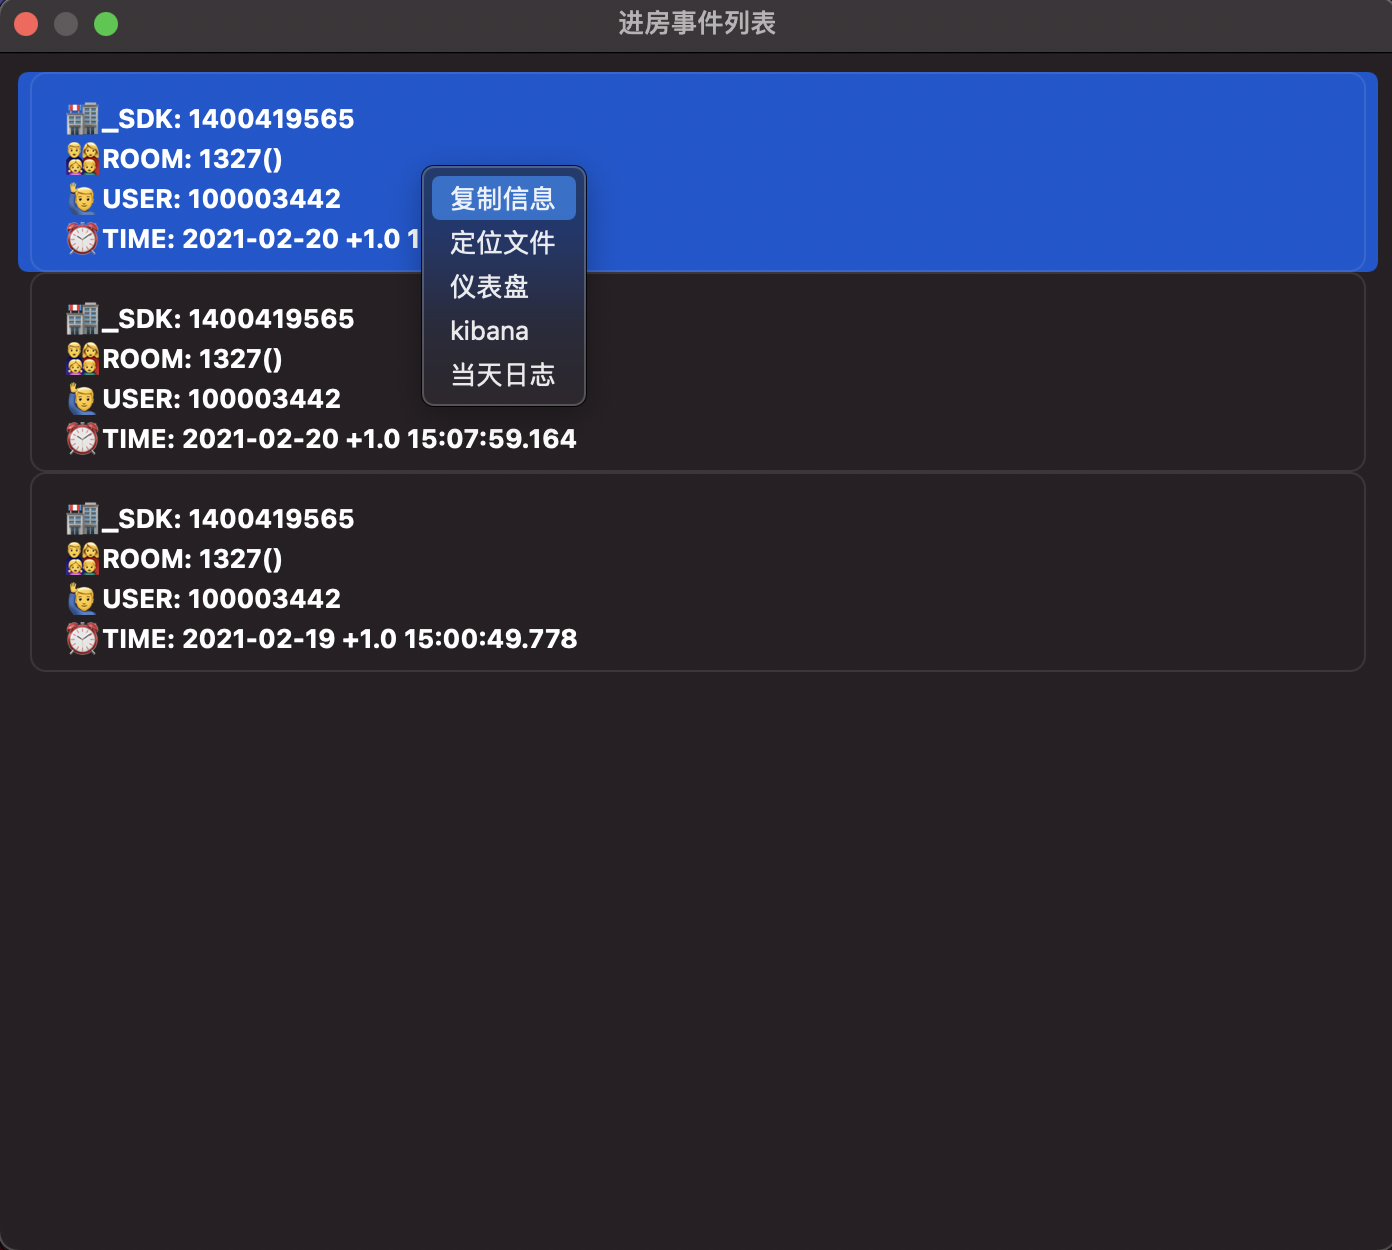
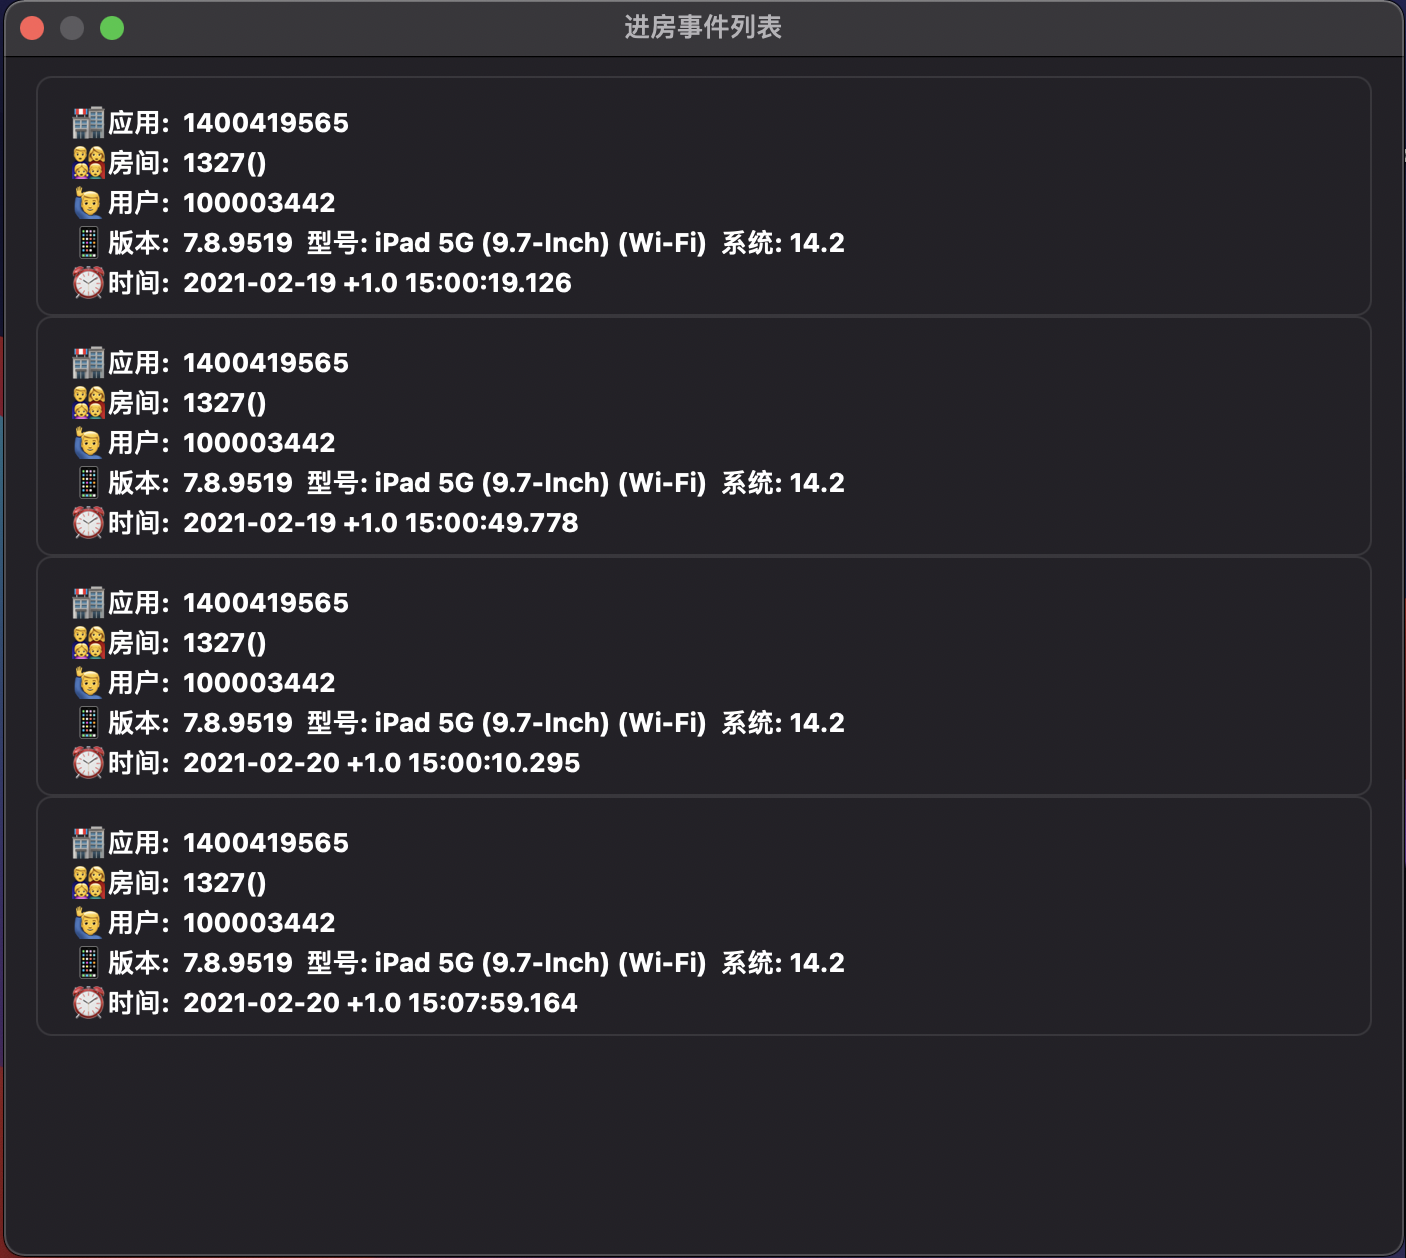
优化判断逻辑

Changed region(s): [[0.0, 0.0, 1.0, 1.0]]

diff --git a/XlogDecoder/XlogDecoder/Utils/DecManager.swift b/XlogDecoder/XlogDecoder/Utils/DecManager.swift
@@ -22,13 +22,13 @@ protocol DecManagerDelegate {
 class DecManager: NSObject {
     
     /// 单例
-  static let manager = DecManager()
+    static let manager = DecManager()
     
    /// 代理
     var delegate: DecManagerDelegate?
     
     /// 脚本
-   var scriptPath: String {
+    var scriptPath: String {
         get{
             
            let is3X = MMKV.default()?.bool(forKey: K_Script) ?? false
@@ -43,7 +43,7 @@ class DecManager: NSObject {
     
     /// 数据传递
     typealias DecClourse = ((Array<DecItem>) -> (Void))
-    typealias TaskClourse = ((DecItem?) -> (Void))
+    typealias TaskClourse = (([DecItem]?) -> (Void))
     
     //MARK: 解码文件
     public func decItems(files: Array<String>, dec: @escaping DecClourse){
@@ -62,7 +62,7 @@ class DecManager: NSObject {
                 
                 let fileURL = URL.init(fileURLWithPath: filePath)
                 self.parseDecItem(logPath: fileURL, taskClouse: { [self] item in
-                    (item != nil && (item?.sdkAppid.count ?? 0) > 0) ?items.append(item!):nil
+                    item?.count ?? 0 > 0 ?items.append(contentsOf: item!):nil
                     
                     if delegate != nil {
                         parsedCount += 1
@@ -161,7 +161,7 @@ class DecManager: NSObject {
         
     }
     
-    private func parseUsingRegx(_ logPath: URL) -> DecItem?{
+    private func parseUsingRegx(_ logPath: URL)->[DecItem]?{
         
         ///解压路径
         var decPath = logPath.path
@@ -184,33 +184,61 @@ class DecManager: NSObject {
             return nil
         }
         
-        /// 读取EnterRoom事件
-        let regx = "([\\d\\s\\-\\+\\s:\\.]{20,}).*trtc_api[\\s,]+enterRoom roomId:(.*?)\\suserId:(.*?)\\ssdkAppId:(.*?)\\s"
-        let regExp = try? NSRegularExpression.init(pattern: regx, options: .caseInsensitive)
-        let matches = regExp!.matches(in: logs, range: NSRange.init(location: 0, length: logs.count))
+        var decArray = Array<DecItem>()
         
-        var decItem = DecItem()
-        for match in matches {
+        /// 读取EnterRoom事件
+        let roomExp = try? NSRegularExpression.init(pattern: Regx_Room, options: .caseInsensitive)
+        let roomMatches = roomExp!.matches(in: logs, range: NSRange.init(location: 0, length: logs.count))
+        
+        /// 尝试读取环境版本信息
+        let envExp = try? NSRegularExpression.init(pattern: Regx_Env, options: .caseInsensitive)
+        let envMatch = envExp!.firstMatch(in: logs, options: .reportProgress, range: NSRange.init(location: 0, length: logs.count))
+        
+        var envStr : String?
+        var sdkVer : String?
+        var device : String?
+        var sysVer : String?
+        if envMatch?.numberOfRanges ?? 0 > 0{
+            envStr = logs.subRangeStr(range: (envMatch?.range(at: 0))!)
+            sdkVer = logs.subRangeStr(range: (envMatch?.range(at: 1))!)
+            device = logs.subRangeStr(range: (envMatch?.range(at: 2))!)
+            sysVer = logs.subRangeStr(range: (envMatch?.range(at: 3))!)
+        }
+        
+        for (_ , matchItem) in roomMatches.enumerated() {
             
-            decItem.enterEvent = logs.substring(with: Range.init(match.range(at: 0), in: logs)!)
-            decItem.time = logs.substring(with: Range.init(match.range(at: 1), in: logs)!)
-            decItem.roomId = logs.substring(with: Range.init(match.range(at: 2), in: logs)!)
-            decItem.userId = logs.substring(with: Range.init(match.range(at: 3), in: logs)!)
-            decItem.sdkAppid = logs.substring(with: Range.init(match.range(at: 4), in: logs)!)
-            decItem.timestamp = "\(String.timeToTimeStamp(time: decItem.time, inputFormatter: "yyyy-MM-dd +8.0 HH:mm:ss.SSS"))"
+            var decItem = DecItem()
+            
+            decItem.srcPath = logPath.path
+            decItem.dstPath = decPath
+            
+            decItem.enterEvent  = logs.subRangeStr(range: matchItem.range(at: 0))
+            decItem.time        = logs.subRangeStr(range: matchItem.range(at: 1))
+            decItem.roomId      = logs.subRangeStr(range: matchItem.range(at: 2))
+            decItem.userId      = logs.subRangeStr(range: matchItem.range(at: 3))
+            decItem.sdkAppid    = logs.subRangeStr(range: matchItem.range(at: 4))
+            decItem.timestamp   = "\(String.timeToDecStamp(time: decItem.time))"
             
             let dateStrip = decItem.time.prefix(10)
             decItem.dateStrip = String(dateStrip)
             
             decItem.dayMaxStamp = "\(String.timeToTimeStamp(time: dateStrip + " +8.0 23:59:59.999", inputFormatter: "yyyy-MM-dd +8.0 HH:mm:ss.SSS"))"
             
-            decItem.dateRange = "daterange[]=\(dateStrip) 00:00:00&daterange[]=\(dateStrip) 23:59:59"
+            decItem.dateRange = String.dateToDayRange(date: String(dateStrip))
             
-            decItem.srcPath = logPath.path
-            decItem.dstPath = decPath
+            if envStr != nil{
+                decItem.envInfo = envStr!
+                decItem.sdkVer  = sdkVer!
+                decItem.device  = device!
+                decItem.sysVer  = sysVer!
+            }
+            
+            decArray.append(decItem)
         }
-        return decItem
+        
+        return decArray
     }
+
 }
 
 extension DecManager{

diff --git a/XlogDecoder/XlogDecoder/Module/RoomEvent/View/TableView/EnterItemView.swift b/XlogDecoder/XlogDecoder/Module/RoomEvent/View/TableView/EnterItemView.swift
@@ -10,11 +10,12 @@ import Cocoa
 import SnapKit
 
 enum EnterMenuType: String {
-    case copy      = "复制信息"/// 复制当前进房信息
-    case position  = "定位文件"/// 定位至该进房信息的文件(目前点击仪表盘之后可能还得找哪个日志文件)
-    case monitor   = "仪表盘"/// 跳转至仪表盘填写一些数据
-    case kibana    = "kibana"/// 查找kibana日志
-    case fetchLog  = "当天日志"/// 后台捞日志
+    case copy         = "复制信息"/// 复制当前进房信息
+    case position     = "定位文件"/// 定位至该进房信息的文件(目前点击仪表盘之后可能还得找哪个日志文件)
+    case monitor      = "仪表盘"/// 跳转至仪表盘填写一些数据
+    case kibana       = "kibana"/// 查找kibana日志
+    case fetchLog     = "当天日志"/// 后台捞日志
+    case Environment  = "版本机型"/// SDK版本和机型
 }
 
 struct EnterAction {
@@ -65,10 +66,11 @@ class EnterItemView: NSView {
     var item : DecItem? {
      
         didSet{
-            self.appMsg.stringValue  =  "🏬_SDK: \(item?.sdkAppid ?? "NULL")"
-            self.roomMsg.stringValue =  "👨👩👧👦ROOM: \(item?.roomId ?? "NULL")"
-            self.userMsg.stringValue =  "🙋♂USER: \(item?.userId ?? "NULL")"
-            self.timeMsg.stringValue =  "⏰TIME: \(item?.time   ?? "NULL")"
+            self.appMsg.stringValue  =  "🏬应用:  \(item?.sdkAppid ?? "NULL")"
+            self.roomMsg.stringValue =  "👨👩👧👦房间:  \(item?.roomId ?? "NULL")"
+            self.userMsg.stringValue =  "🙋♂用户:  \(item?.userId ?? "NULL")"
+            self.envMsg.stringValue =   "📱版本:  \(item!.sdkVer) 型号: \(item!.device) 系统: \(item!.sysVer)"
+            self.timeMsg.stringValue =  "⏰时间:  \(item?.time   ?? "NULL")"
             
             debugPrint("🏬[_SDK]: \(item?.sdkAppid ?? "NULL")")
         }
@@ -79,6 +81,8 @@ class EnterItemView: NSView {
     private var roomMsg: NSTextField!
     
     private var userMsg: NSTextField!
+    
+    private var envMsg: NSTextField!
     
     private var timeMsg: NSTextField!
     
@@ -110,6 +114,7 @@ class EnterItemView: NSView {
         appMsg  = createTitleView(font: NSFont.boldSystemFont(ofSize: 13), textColor: NSColor.textColor)
         roomMsg = createTitleView(font: NSFont.boldSystemFont(ofSize: 13), textColor: NSColor.textColor)
         userMsg = createTitleView(font: NSFont.boldSystemFont(ofSize: 13), textColor: NSColor.textColor)
+        envMsg = createTitleView(font: NSFont.boldSystemFont(ofSize: 13), textColor: NSColor.textColor)
         timeMsg = createTitleView(font: NSFont.boldSystemFont(ofSize: 13), textColor: NSColor.textColor)
         
         maskView = MouseMaskView.init(action: { (type) -> (Void) in
@@ -124,6 +129,7 @@ class EnterItemView: NSView {
         
         self.addSubview(appMsg)
         self.addSubview(roomMsg)
+        self.addSubview(envMsg)
         self.addSubview(userMsg)
         self.addSubview(timeMsg)
         self.addSubview(maskView)
@@ -148,9 +154,16 @@ class EnterItemView: NSView {
             make.height.equalTo(20)
         }
         
-        self.timeMsg.snp.makeConstraints { (make) in
+        self.envMsg.snp.makeConstraints { (make) in
             make.left.equalTo(15)
             make.top.equalTo(userMsg.snp.bottom)
+            make.width.equalTo(self)
+            make.height.equalTo(20)
+        }
+        
+        self.timeMsg.snp.makeConstraints { (make) in
+            make.left.equalTo(15)
+            make.top.equalTo(envMsg.snp.bottom)
             make.width.equalTo(self)
             make.height.equalTo(20)
         }

diff --git a/XlogDecoder/XlogDecoder/Module/RoomEvent/View/TableView/AdapterTableView.swift b/XlogDecoder/XlogDecoder/Module/RoomEvent/View/TableView/AdapterTableView.swift
@@ -15,7 +15,7 @@ protocol AdapterTableViewDelegate {
 
 class AdapterTableView: NSObject {
     fileprivate static let column = "column"
-    fileprivate static let heightOfRow: CGFloat = 100
+    fileprivate static let heightOfRow: CGFloat = 120
     
     fileprivate var items: [DecItem] = [DecItem]() {
         didSet {
@@ -53,10 +53,7 @@ extension AdapterTableView: NSTableViewDelegate, NSTableViewDataSource {
         let theFrame = NSRect.init(x: 0, y: 0, width: self.tableView.frame.width, height: 100)
         let enterView = EnterItemView.init(frame: theFrame)
         enterView.item = model;
-//        let view = NSTextField(string: name)
-//        view.isEditable = false
-//        view.isBordered = false
-//        view.backgroundColor = .clear
+
         return enterView
     }
     
@@ -73,38 +70,20 @@ extension AdapterTableView: NSTableViewDelegate, NSTableViewDataSource {
         return "?????????"
     }
 
-    
-    func tableViewSelectionDidChange(_ notification: Notification) {
-        
-//        let selectedRow = tableView.selectedRow
 //
-//        /// Mac 有-1的
-//        guard selectedRow >= 0  else{
-//            return
+//    func tableViewSelectionDidChange(_ notification: Notification) {
+//
+//        let menu = NSMenu.init(title: "选项")
+//        let menuItemTypes:Array<EnterMenuType> = [.copy, .position, .monitor, .kibana, .fetchLog]
+//
+//        for type in menuItemTypes {
+//
+//            let menuItem = NSMenuItem.init(title: type.rawValue, action: #selector(onClickMenu(item:)), keyEquivalent: "")
+//            menu.addItem(menuItem)
+//
 //        }
-//
-//        let model = items[selectedRow]
-//        var monitorLink = "http://monitor.yy.isd.com/trtc/monitor?userId=\(model.userId)&roomNum=\(model.roomId)&roomStr=\(model.roomId)&sdkAppId=\(model.sdkAppid)&StartTs=\(model.timestamp)&EndTs=\(model.dayMaxStamp)"
-//        monitorLink = monitorLink.replacingOccurrences(of: " ", with: "")
-//        monitorLink = monitorLink.replacingOccurrences(of: "()", with: "")
-//
-//        guard let monitorURL = URL(string:monitorLink) else {
-//           debugPrint("Open MonitorURL Error")
-//           return
-//        }
-//
-//        NSWorkspace.shared.open(monitorURL)
-        let menu = NSMenu.init(title: "选项")
-        let menuItemTypes:Array<EnterMenuType> = [.copy, .position, .monitor, .kibana, .fetchLog]
-        
-        for type in menuItemTypes {
-            
-            let menuItem = NSMenuItem.init(title: type.rawValue, action: #selector(onClickMenu(item:)), keyEquivalent: "")
-            menu.addItem(menuItem)
-            
-        }
-        //NSMenu.popUpContextMenu(menu, with: <#T##NSEvent#>, for: <#T##NSView#>, with: <#T##NSFont?#>)
-    }
+//        //NSMenu.popUpContextMenu(menu, with: <#T##NSEvent#>, for: <#T##NSView#>, with: <#T##NSFont?#>)
+//    }
     
     @objc func onClickMenu(item :NSMenuItem) {
         debugPrint("[Menu Click]\(item.title)")

diff --git a/XlogDecoder/XlogDecoder/Extension/String + ext.swift b/XlogDecoder/XlogDecoder/Extension/String + ext.swift
@@ -20,6 +20,10 @@ extension String{
         return Int(timeStamp ?? 0)
     }
     
+    static func timeToDecStamp(time: String) -> Int {
+        return timeToTimeStamp(time: time, inputFormatter: "yyyy-MM-dd +8.0 HH:mm:ss.SSS")
+    }
+    
     ///时间转时间戳
     static func timeToDayMaxStamp(time: String ,inputFormatter:String) -> Int {
         let dfmatter = DateFormatter()
@@ -28,6 +32,20 @@ extension String{
         let last = dfmatter.date(from: time)
         let timeStamp = last?.timeIntervalSince1970
         return Int(timeStamp ?? 0)
+    }
+    
+    /// 截取指定Range的长度
+    func subRangeStr(range: NSRange) -> String{
+        
+        let st = self.index(startIndex, offsetBy: range.location)
+        let en = self.index(st, offsetBy: range.length)
+        return String(self[st ..< en])
+    }
+    
+    /// 捞日志的dateRange
+    static func dateToDayRange(date: String) ->String{
+        
+        return "daterange[]=\(date) 00:00:00&daterange[]=\(date) 23:59:59"
     }
     
     func showInComma(source: String, gap: Int=3, seperator: Character=",") -> String {

diff --git a/XlogDecoder/XlogDecoder/Module/RoomEvent/EnterViewController.swift b/XlogDecoder/XlogDecoder/Module/RoomEvent/EnterViewController.swift
@@ -87,7 +87,6 @@ class EnterViewController: NSViewController {
             /// 仪表盘
             actionForMonitor(dec: decItem!)
             
-            break
             
         default:
             break
@@ -97,7 +96,7 @@ class EnterViewController: NSViewController {
     
     func actionForCopy(dec: DecItem){
         
-        let text = "Time:\(dec.time) SdkAppid:\(dec.sdkAppid) RoomId:\(dec.roomId) UserId:\(dec.userId)"
+        let text = "time:\(dec.time)\nsdkAppid:\(dec.sdkAppid)\nroomId:\(dec.roomId)\nuserId:\(dec.userId)" + (dec.sdkVer.count > 0 ?"\nSdkVer: \(dec.sdkVer)":"")
         let paste = NSPasteboard.init(name: .general)
         paste.clearContents()
         paste.setString(text, forType: .string)
@@ -159,4 +158,5 @@ class EnterViewController: NSViewController {
         
         NSWorkspace.shared.open(monitorURL)
     }
+    
 }

diff --git a/XlogDecoder/XlogDecoder/Utils/DecConst.swift b/XlogDecoder/XlogDecoder/Utils/DecConst.swift
@@ -24,3 +24,15 @@ let S_Bundle   =  Bundle.main.path(forResource: "Scripts", ofType: "bundle")!
 let S_Py2X     =  S_Bundle + "/decode_mars_log_file.py"
 let S_Py3X     =  S_Bundle + "/decode_mars_log_file_3.py"
 
+/// ==========正则表达式==========
+/*
+   匹配进房事件[roomId, userId, sdkAppId]
+   enterRoom roomId:xxxx userId:xxxx sdkAppId:xxxx appSence:xxxx role:xxx
+ */
+let Regx_Room = "([\\d\\s\\-\\+\\s:\\.]{20,}).*trtc_api[\\s,]+enterRoom roomId:(.*?)\\suserId:(.*?)\\ssdkAppId:(.*?)\\s"
+
+/*
+   匹配SDK版本机型系统信息[sdkVer, model, sysVer]
+   SDK Version:7.8.9519 Device Name:iPad 5G (9.7-Inch) (Wi-Fi) System Version:14.4
+ */
+let Regx_Env = "SDK Version:([^=]*)Device Name:([^=]*)System Version:([^=]*)"

diff --git a/XlogDecoder/XlogDecoder/Module/Decoder/DecViewController.swift b/XlogDecoder/XlogDecoder/Module/Decoder/DecViewController.swift
@@ -116,8 +116,9 @@ extension DecViewController{
                 let enterVC: EnterViewController = st.instantiateController(withIdentifier: .init("EnterViewController")) as! EnterViewController
                 self?.addChild(enterVC)
                 enterVC.items = items
-                self?.presentAsModalWindow(enterVC)
                 
+                self?.presentAsModalWindow(enterVC)
+           
             }
         }
     }

diff --git a/XlogDecoder/XlogDecoder/Module/Decoder/Model/DecItem.swift b/XlogDecoder/XlogDecoder/Module/Decoder/Model/DecItem.swift
@@ -18,5 +18,9 @@ struct DecItem {
     var dateStrip = ""///Kibana捞日志会默认填写一整天 
     var srcPath = ""///当天最晚点的时间戳
     var dstPath = ""///当天最晚点的时间戳
+    var envInfo = ""///当天最晚点的时间戳
+    var sdkVer = ""///SD版本
+    var device = ""///设备信息
+    var sysVer = ""///系统版本
 }
 
